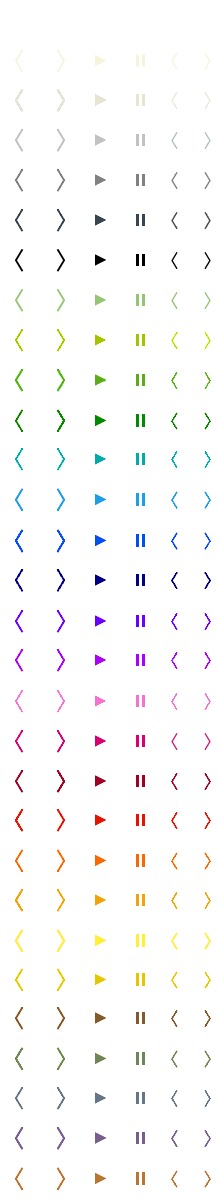
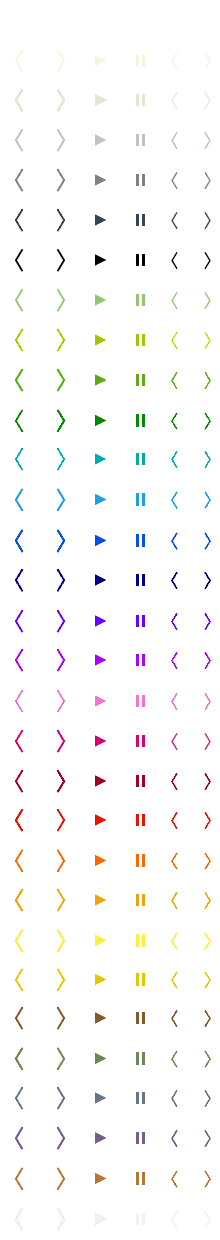
Added extra theme colour
Added extra theme colour

diff --git a/upload/catalog/view/javascript/jquery/camera/css/camera.css b/upload/catalog/view/javascript/jquery/camera/css/camera.css
@@ -1134,3 +1134,25 @@
 .camera_sienna_skin .camera_commands > .camera_stop {
 	background-position: -120px -1160px;
 }
+/*MIST SKIN*/
+.camera_mist_skin .camera_pag .camera_pag_ul li.cameracurrent > span {
+	background: #F2F2F2;
+}
+.camera_mist_skin .camera_prevThumbs div {
+	background-position: -160px -1200px;
+}
+.camera_mist_skin .camera_nextThumbs div {
+	background-position: -190px -1200px;
+}
+.camera_mist_skin .camera_prev > span {
+	background-position: 0 -1200px;
+}
+.camera_mist_skin .camera_next > span {
+	background-position: -40px -1200px;
+}
+.camera_mist_skin .camera_commands > .camera_play {
+	background-position: -80px -1200px;
+}
+.camera_mist_skin .camera_commands > .camera_stop {
+	background-position: -120px -1200px;
+}

diff --git a/upload/catalog/view/javascript/jquery/slick/slick.css b/upload/catalog/view/javascript/jquery/slick/slick.css
@@ -432,8 +432,15 @@
 }
 /*SIENNA SKIN*/
 .slick_sienna_skin .slick-prev > span {
-	background-position: 0 -1180px;
+	background-position: 0 -1160px;
 }
 .slick_sienna_skin .slick-next > span {
-	background-position: -40px -1180px;
+	background-position: -40px -1160px;
+}
+/*MIST SKIN*/
+.slick_mist_skin .slick-prev > span {
+	background-position: 0 -1200px;
+}
+.slick_mist_skin .slick-next > span {
+	background-position: -40px -1200px;
 }

diff --git a/upload/catalog/view/theme/default/stylesheet/stylesheet-modifiers.css b/upload/catalog/view/theme/default/stylesheet/stylesheet-modifiers.css
@@ -313,3 +313,8 @@
 	background: #B77733;
 	color: #FFF;
 }
+/* Mist */
+.mist-skin {
+	background: #F2F2F2;
+	color: #222;
+}

diff --git a/upload/catalog/controller/module/menu_horizontal.php b/upload/catalog/controller/module/menu_horizontal.php
@@ -25,7 +25,7 @@ class ControllerModuleMenuHorizontal extends Controller {
 		if ($menu_theme == 'custom') {
 			$this->document->addStyle('catalog/view/theme/' . $template . '/stylesheet/menu-' . $menu_direction . '.css');
 
-			if ($mod_color == 'white-skin' || $mod_color == 'beige-skin' || $mod_color == 'ash-skin' || $mod_color == 'silver-skin' || $mod_color == 'citrus-skin' || $mod_color == 'yellow-skin') {
+			if ($mod_color == 'white-skin' || $mod_color == 'beige-skin' || $mod_color == 'ash-skin' || $mod_color == 'silver-skin' || $mod_color == 'citrus-skin' || $mod_color == 'yellow-skin' || $mod_color == 'mist-skin') {
 				$this->document->addStyle('catalog/view/theme/' . $template . '/stylesheet/menu-dark.css');
 				$menu_theme = 'light';
 			} else {

diff --git a/upload/catalog/controller/common/footer.php b/upload/catalog/controller/common/footer.php
@@ -92,7 +92,7 @@ class ControllerCommonFooter extends Controller {
 		if ($footer_theme == 'custom') {
 			$this->document->addStyle('catalog/view/theme/' . $template . '/stylesheet/footer-custom.css');
 
-			if ($mod_color == 'white-skin' || $mod_color == 'beige-skin' || $mod_color == 'ash-skin' || $mod_color == 'silver-skin' || $mod_color == 'citrus-skin' || $mod_color == 'yellow-skin') {
+			if ($mod_color == 'white-skin' || $mod_color == 'beige-skin' || $mod_color == 'ash-skin' || $mod_color == 'silver-skin' || $mod_color == 'citrus-skin' || $mod_color == 'yellow-skin' || $mod_color == 'mist-skin') {
 				$footer_class = 'footer-dark';
 			} else {
 				$footer_class = 'footer-light';

diff --git a/upload/admin/model/setting/setting.php b/upload/admin/model/setting/setting.php
@@ -74,6 +74,7 @@ class ModelSettingSetting extends Model {
 		$skins[] = array('skin' => 'steel','color' => '#647687','title' => 'Steel');
 		$skins[] = array('skin' => 'mauve','color' => '#76608A','title' => 'Mauve');
 		$skins[] = array('skin' => 'sienna','color' => '#B77733','title' => 'Sienna');
+		$skins[] = array('skin' => 'mist','color' => '#F2F2F2','title' => 'Mist');
 
 		return $skins;
 	}
